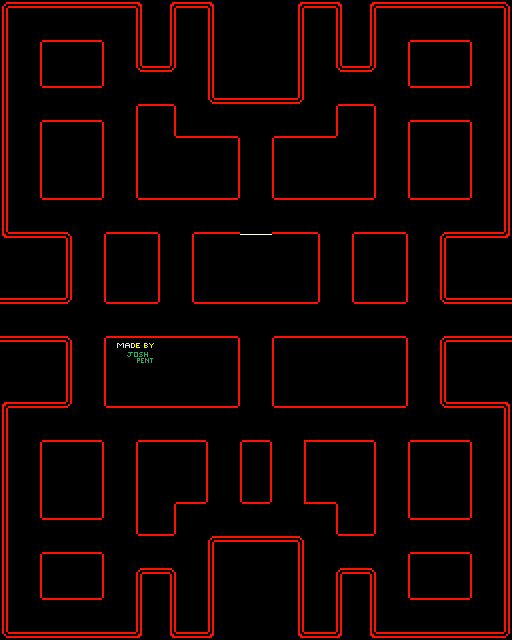
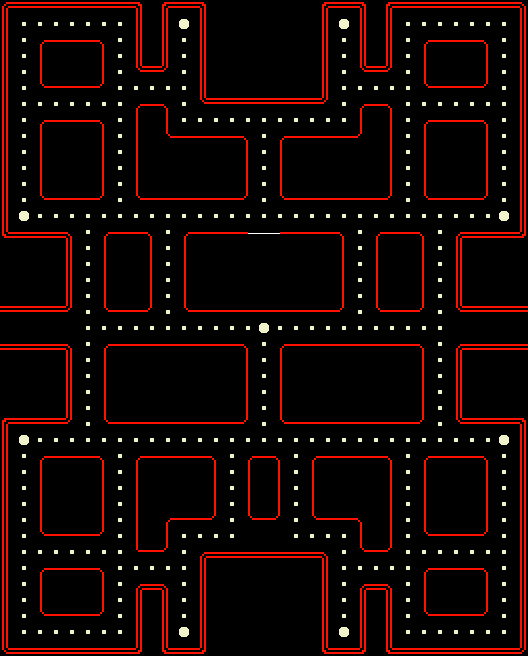
Added finished map

diff --git a/pacman.js b/pacman.js
@@ -1,4 +1,5 @@
 const sprites = new Image();
+const background = new Image();
 const gameAreaSetup = document.getElementById('GameArea');
 const game = gameAreaSetup.getContext("2d");
 class Sprite {
@@ -15,42 +16,39 @@ class Sprite {
     }
     dim = 32; // dim = dimensions
     hitbox = 15; //hitbox is slightly less than half dim because of blank space around sprites
-    directionI = 0;
-    // placeholder = this.spriteNum;
-    movement() {
-        this.animate();
-        }
+    directionI = 0; // placeholder for sprite calling.
     animate() { //makes the sprite animated, ex: Pacman moves his mouth.
         if (this.direction === "up") {
+            this.directionI = this.column+3;
             if (pacman.yAxis > 0) {
             if (pacman.yAxis <= pacman.movement) pacman.yAxis -= pacman.yAxis; //if pacman is close to a wall, this ensures he doesnt walk through it
             else pacman.yAxis -= pacman.movement; 
             game.clearRect(this.xAxis,this.yAxis+this.movement,32,32)
-            this.directionI = this.column+3;
+            // this.directionI = this.column+3;
             }
         }
         else if (this.direction === "down") {
+            this.directionI = this.column+5;
             if (pacman.yAxis < gameAreaSetup.height-pacman.dim) {
             if (pacman.yAxis >= gameAreaSetup.height-pacman.movement) pacman.yAxis = gameAreaSetup.height; 
             else pacman.yAxis += pacman.movement; //using .movement allows game speed to be changed easily
             game.clearRect(this.xAxis,this.yAxis-this.movement,32,32)
-            this.directionI = this.column+5;
             }
         }
         else if (this.direction === "left") {
+            this.directionI = this.column+1;
             if (pacman.xAxis > 0) {
             if (pacman.xAxis <= pacman.movement) pacman.xAxis -= pacman.xAxis;
             else pacman.xAxis -= pacman.movement; 
             game.clearRect(this.xAxis+this.movement,this.yAxis,32,32)
-            this.directionI = this.column+1;
             }
         }
         else if (this.direction === "right") {
+            this.directionI = this.column-1;
             if (pacman.xAxis < gameAreaSetup.width-pacman.dim) {    
             if (pacman.xAxis >= gameAreaSetup.width-pacman.movement) pacman.xAxis = gameAreaSetup.width; 
             else pacman.xAxis += pacman.movement;
             game.clearRect(this.xAxis-this.movement,this.yAxis,32,32)
-            this.directionI = this.column-1;
             }
         };
         if(this.column < this.column + this.spriteNum) {
@@ -72,7 +70,7 @@ class Sprite {
     }
 
 };
-const pacman = new Sprite("pacman", 0, 1, 2, 8, 200, 200, "up"); //establishing the onscreen characters 
+const pacman = new Sprite("pacman", 0, 1, 2, 8, 240, 504, "neutral"); //establishing the onscreen characters 
 const redGhost = new Sprite("red", 1, 1, 2, 8, 200, 200, "up") //this is all I need for a functioning red ghost
 
 document.addEventListener('keydown', (direction) => { //this function detects arrow pushes for pacman's movement
@@ -92,9 +90,12 @@ document.addEventListener('keydown', (direction) => { //this function detects ar
 });
 
 
+background.onload = function() {
+    game.drawImage(background, 0, 0)
+    game.drawImage(sprites, 0, 0, 32, 32, pacman.xAxis, pacman.yAxis, 32, 32)
+}
 
 
-
-
+background.src = "images/background.png";
 sprites.src = "images/Pacman.png";
 

diff --git a/index.html b/index.html
@@ -10,7 +10,7 @@
 <body>
     <h1>PacMan</h1>
     <div id="Arena">
-        <canvas id="GameArea" width="512" height="640"></canvas>
+        <canvas id="GameArea" width="528" height="656"></canvas>
     </div>
     <div id="sprites">
         <img id="pacman" src="">
